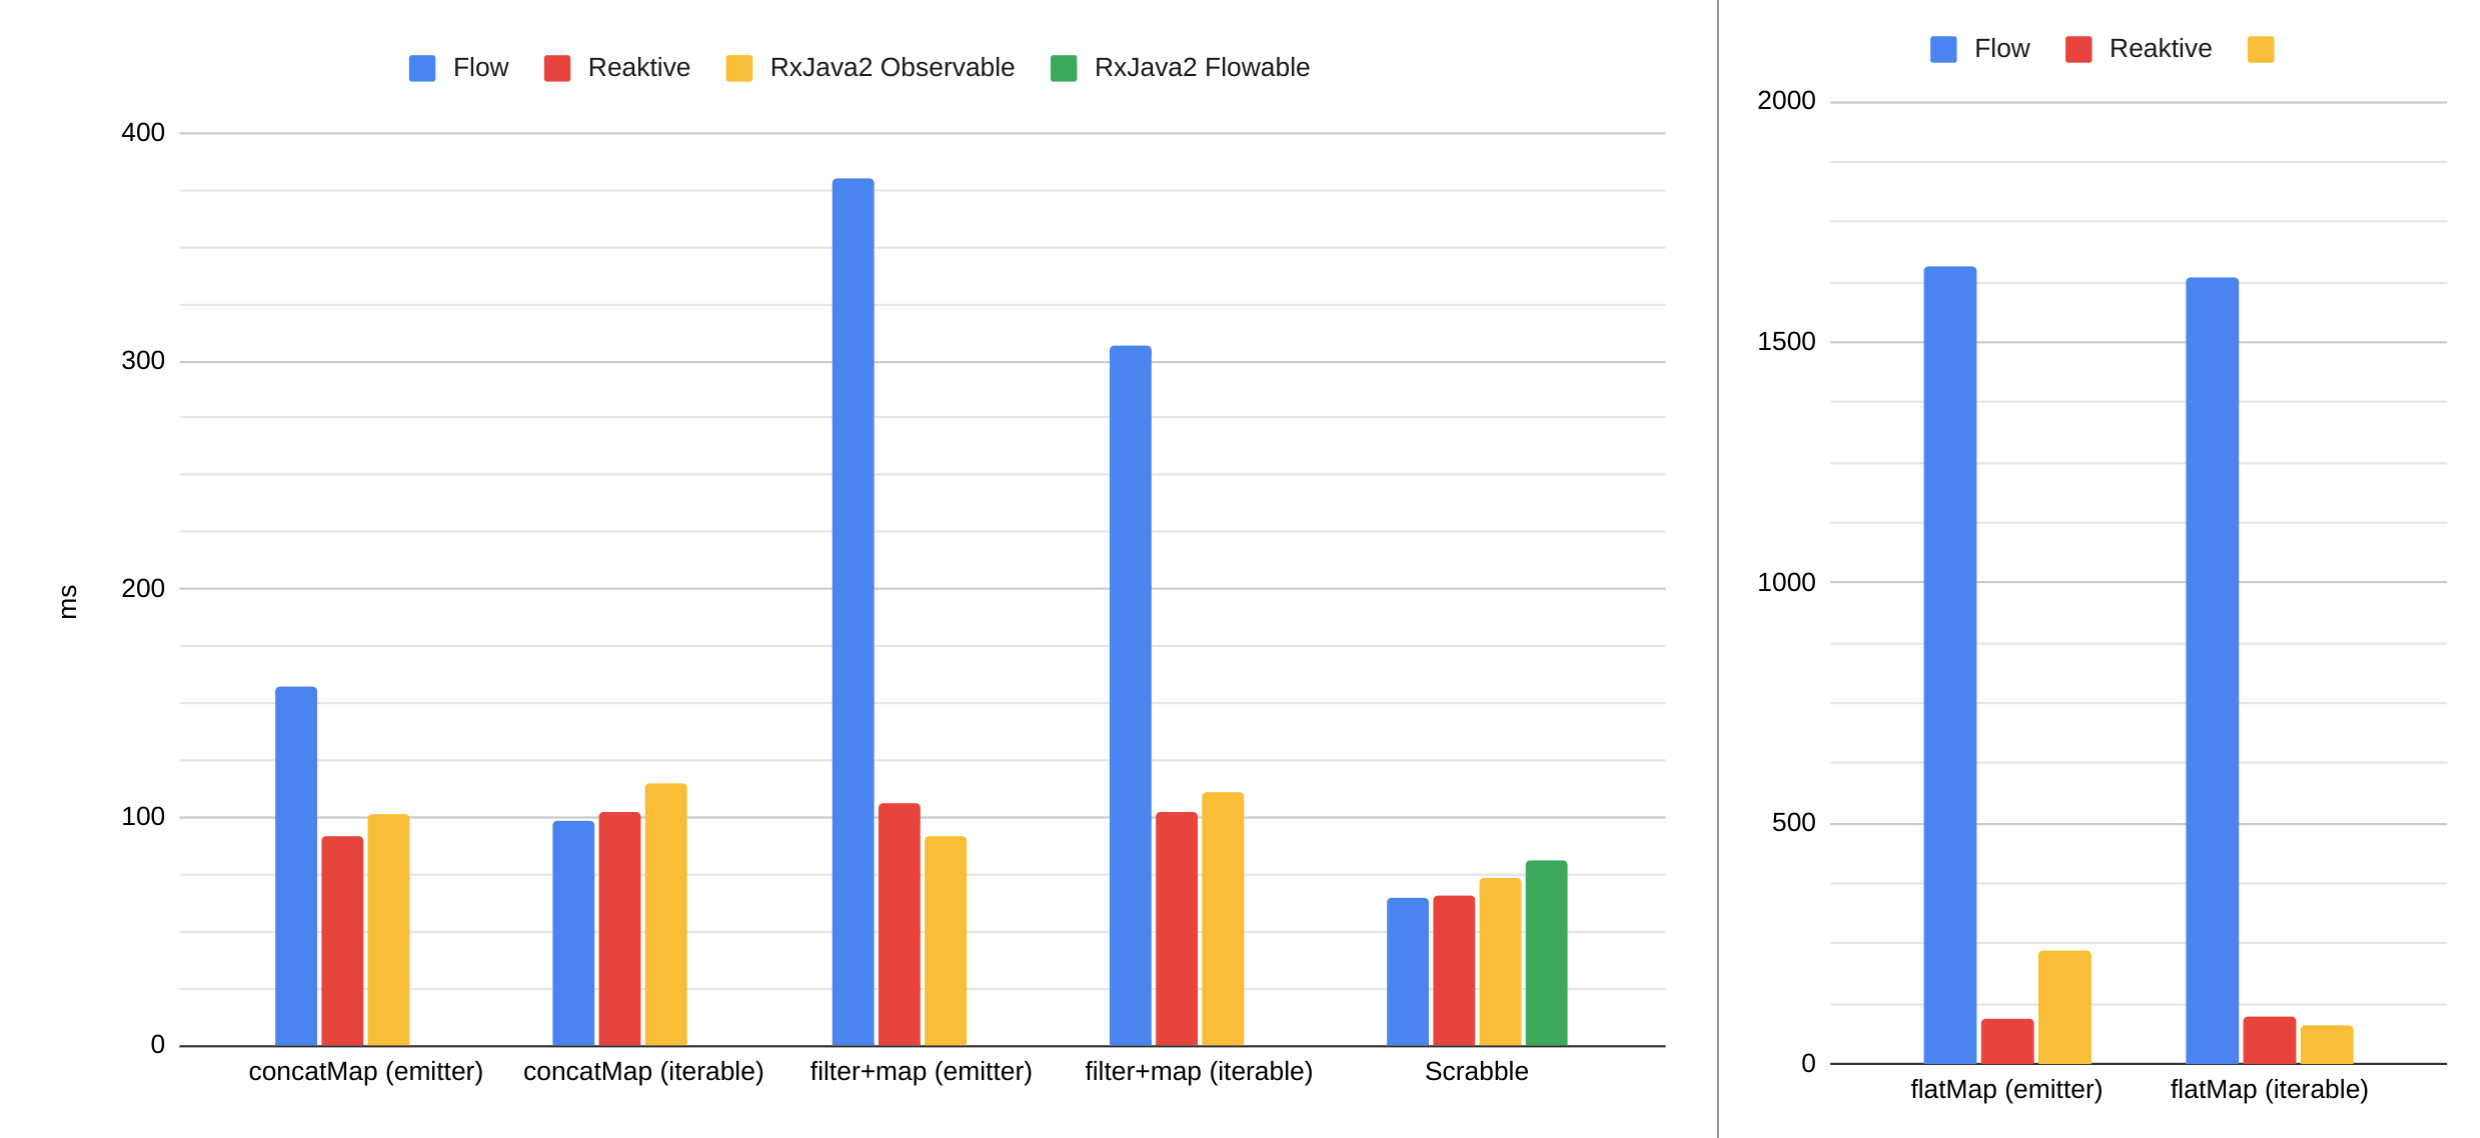
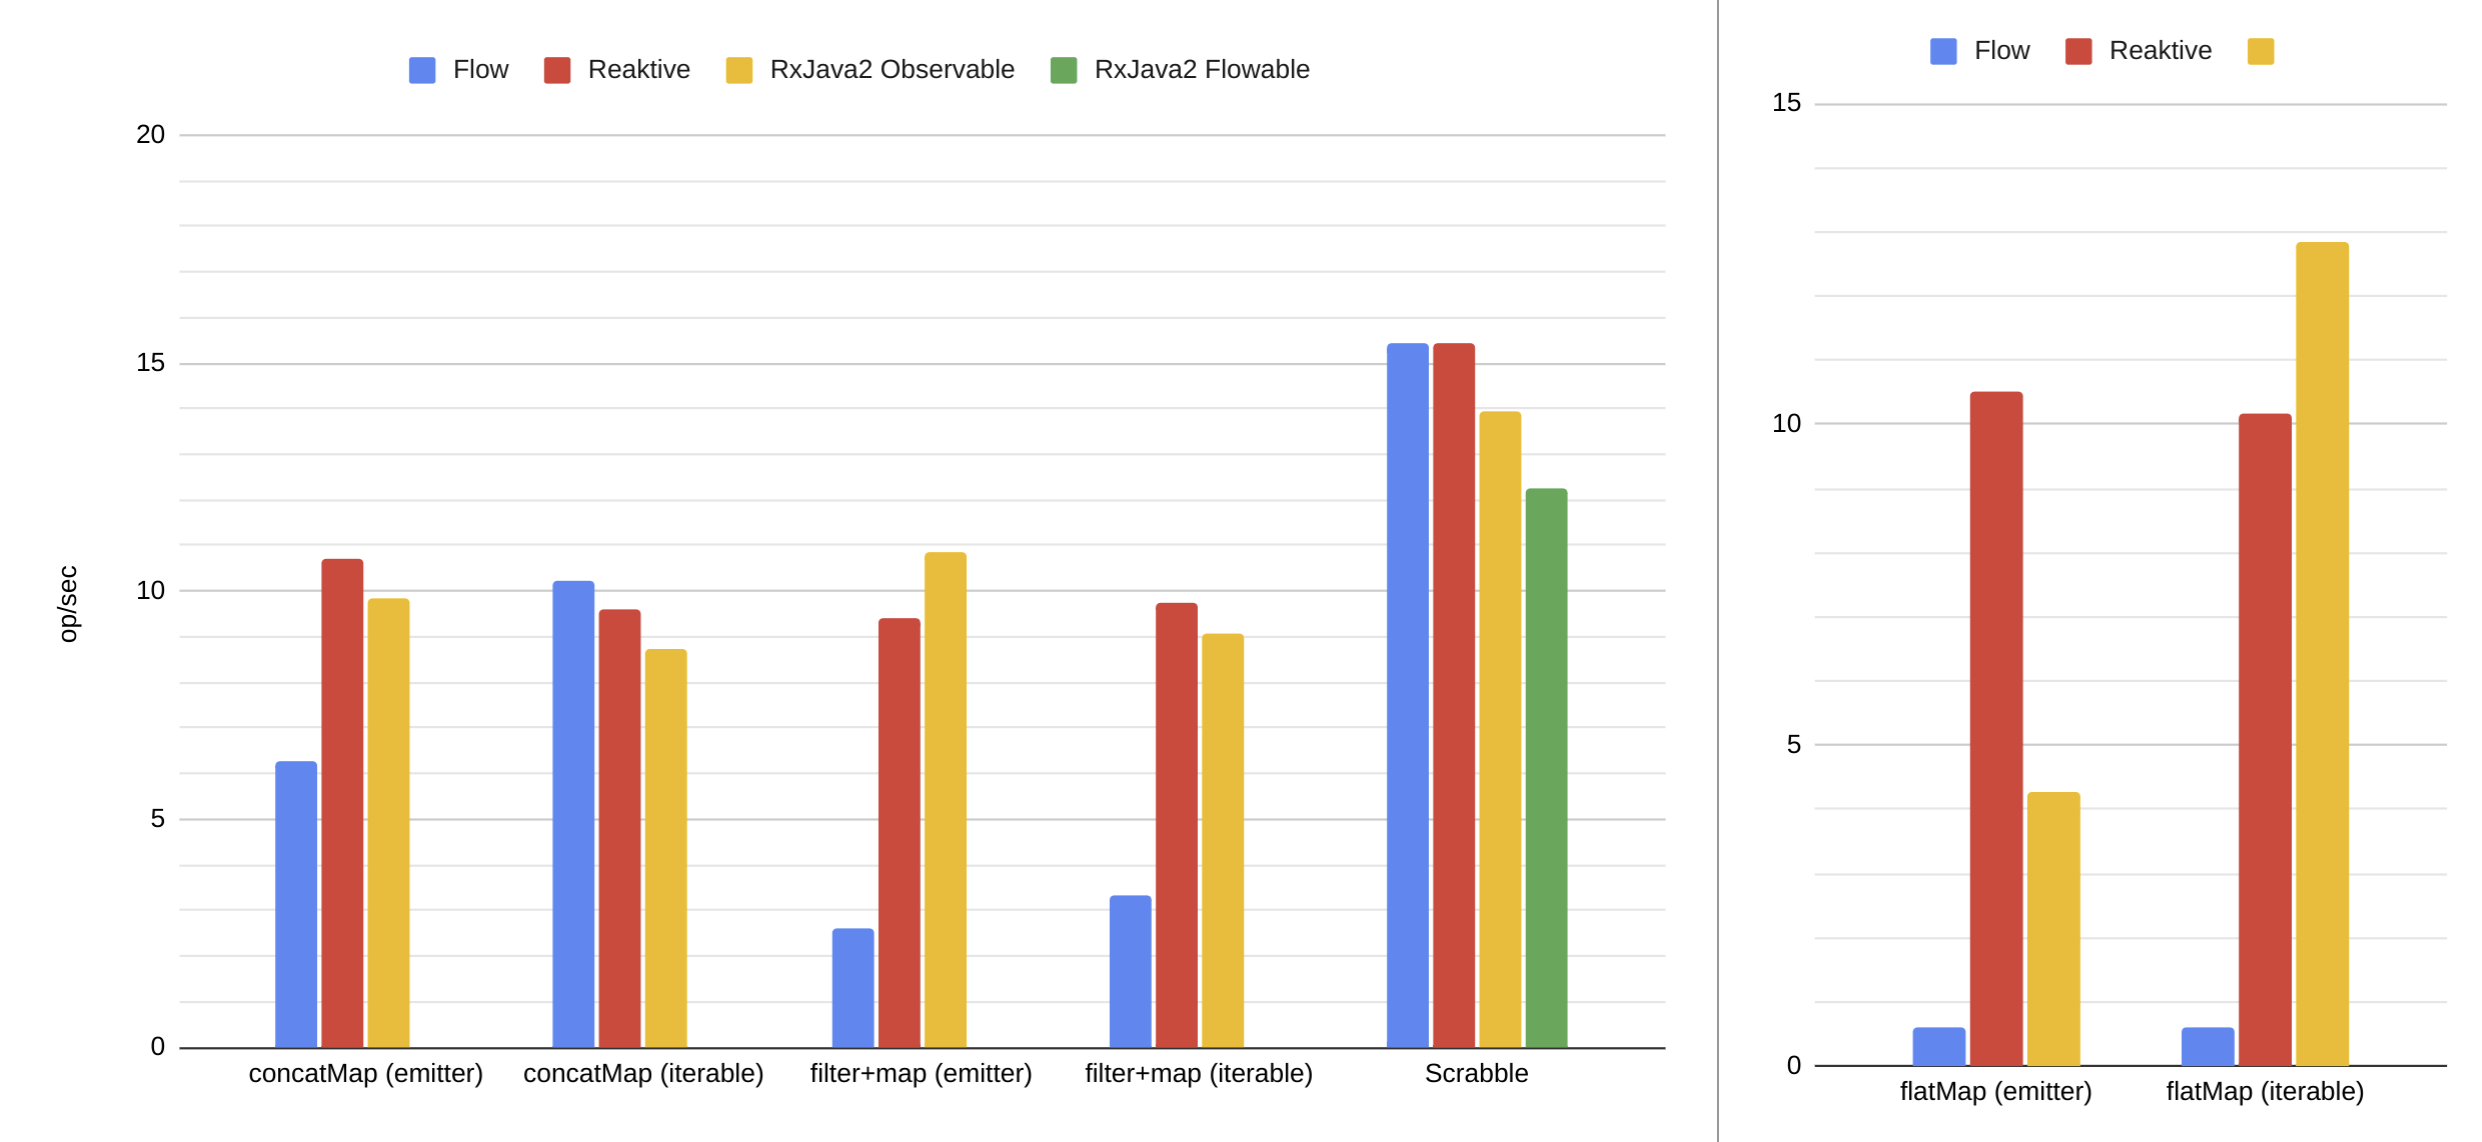
Change benchmarks units to thrpt

diff --git a/benchmarks/jmh/README.md b/benchmarks/jmh/README.md
@@ -7,35 +7,35 @@ If build fails then try `./gradlew --stop` command and then re-run the build
 
 Performance:
 ```
-Benchmark                                          Mode  Cnt     Score    Error  Units
-c.b.r.b.j.concatmap.ConcatMapReaktive.emitter      avgt   10    92.041 ± 0.187  ms/op
-c.b.r.b.j.concatmap.ConcatMapRxJava2.emitter       avgt   10   101.558 ± 0.244  ms/op
-c.b.r.b.j.concatmap.ConcatMapFlow.emitter          avgt   10   157.162 ± 0.294  ms/op
+Benchmark                                           Mode  Cnt   Score   Error  Units
+c.b.r.b.j.concatmap.ConcatMapReaktive.emitter      thrpt   12  10.713 ± 0.166  ops/s
+c.b.r.b.j.concatmap.ConcatMapRxJava2.emitter       thrpt   12   9.859 ± 0.021  ops/s
+c.b.r.b.j.concatmap.ConcatMapFlow.emitter          thrpt   12   6.284 ± 0.075  ops/s
 
-c.b.r.b.j.concatmap.ConcatMapReaktive.iterable     avgt   10   101.847 ± 0.180  ms/op
-c.b.r.b.j.concatmap.ConcatMapRxJava2.iterable      avgt   10   114.767 ± 0.123  ms/op
-c.b.r.b.j.concatmap.ConcatMapFlow.iterable         avgt   10    97.916 ± 0.057  ms/op
+c.b.r.b.j.concatmap.ConcatMapReaktive.iterable     thrpt   12   9.614 ± 0.020  ops/s
+c.b.r.b.j.concatmap.ConcatMapRxJava2.iterable      thrpt   12   8.713 ± 0.008  ops/s
+c.b.r.b.j.concatmap.ConcatMapFlow.iterable         thrpt   12  10.051 ± 0.168  ops/s
 
-c.b.r.b.j.filtermap.FilterMapReaktive.emitter      avgt   10   106.277 ± 0.179  ms/op
-c.b.r.b.j.filtermap.FilterMapRxJava2.emitter       avgt   10    92.000 ± 0.121  ms/op
-c.b.r.b.j.filtermap.FilterMapFlow.emitter          avgt   10   379.816 ± 0.347  ms/op
+c.b.r.b.j.filtermap.FilterMapReaktive.emitter      thrpt   12   9.406 ± 0.009  ops/s
+c.b.r.b.j.filtermap.FilterMapRxJava2.emitter       thrpt   12  10.863 ± 0.015  ops/s
+c.b.r.b.j.filtermap.FilterMapFlow.emitter          thrpt   12   2.626 ± 0.003  ops/s
 
-c.b.r.b.j.filtermap.FilterMapReaktive.iterable     avgt   10   102.410 ± 0.105  ms/op
-c.b.r.b.j.filtermap.FilterMapRxJava2.iterable      avgt   10   111.155 ± 0.332  ms/op
-c.b.r.b.j.filtermap.FilterMapFlow.iterable         avgt   10   306.474 ± 2.500  ms/op
+c.b.r.b.j.filtermap.FilterMapReaktive.iterable     thrpt   12   9.764 ± 0.012  ops/s
+c.b.r.b.j.filtermap.FilterMapRxJava2.iterable      thrpt   12   9.046 ± 0.018  ops/s
+c.b.r.b.j.filtermap.FilterMapFlow.iterable         thrpt   12   3.314 ± 0.010  ops/s
 
-c.b.r.b.j.flatmap.FlatMapReaktive.emitter          avgt   10    95.124 ± 0.066  ms/op
-c.b.r.b.j.flatmap.FlatMapRxJava2.emitter           avgt   10   233.668 ± 0.316  ms/op
-c.b.r.b.j.flatmap.FlatMapFlow.emitter              avgt   10  1658.398 ± 2.062  ms/op
+c.b.r.b.j.flatmap.FlatMapReaktive.emitter          thrpt   12  10.504 ± 0.018  ops/s
+c.b.r.b.j.flatmap.FlatMapRxJava2.emitter           thrpt   12   4.277 ± 0.010  ops/s
+c.b.r.b.j.flatmap.FlatMapFlow.emitter              thrpt   12   0.598 ± 0.002  ops/s
 
-c.b.r.b.j.flatmap.FlatMapReaktive.iterable         avgt   10    98.461 ± 0.301  ms/op
-c.b.r.b.j.flatmap.FlatMapRxJava2.iterable          avgt   10    78.183 ± 0.185  ms/op
-c.b.r.b.j.flatmap.FlatMapFlow.iterable             avgt   10  1636.532 ± 4.495  ms/op
+c.b.r.b.j.flatmap.FlatMapReaktive.iterable         thrpt   12  10.182 ± 0.022  ops/s
+c.b.r.b.j.flatmap.FlatMapRxJava2.iterable          thrpt   12  12.834 ± 0.012  ops/s
+c.b.r.b.j.flatmap.FlatMapFlow.iterable             thrpt   12   0.608 ± 0.002  ops/s
 
-c.b.r.b.j.scrabble.ScrabbleReaktive.play           avgt   10    65.805 ± 0.210  ms/op
-c.b.r.b.j.scrabble.ScrabbleRxJava2Flowable.play    avgt   10    81.461 ± 0.811  ms/op
-c.b.r.b.j.scrabble.ScrabbleRxJava2Observable.play  avgt   10    73.332 ± 0.425  ms/op
-c.b.r.b.j.scrabble.ScrabbleFlow.play               avgt   10    64.422 ± 0.189  ms/op
+c.b.r.b.j.scrabble.ScrabbleReaktive.play           thrpt   12  15.437 ± 0.039  ops/s
+c.b.r.b.j.scrabble.ScrabbleRxJava2Flowable.play    thrpt   12  12.235 ± 0.086  ops/s
+c.b.r.b.j.scrabble.ScrabbleRxJava2Observable.play  thrpt   12  13.916 ± 0.092  ops/s
+c.b.r.b.j.scrabble.ScrabbleFlow.play               thrpt   12  15.411 ± 0.042  ops/s
 ```
 
 <img src="https://raw.githubusercontent.com/badoo/Reaktive/master/assets/benchmarks_performance.png">
